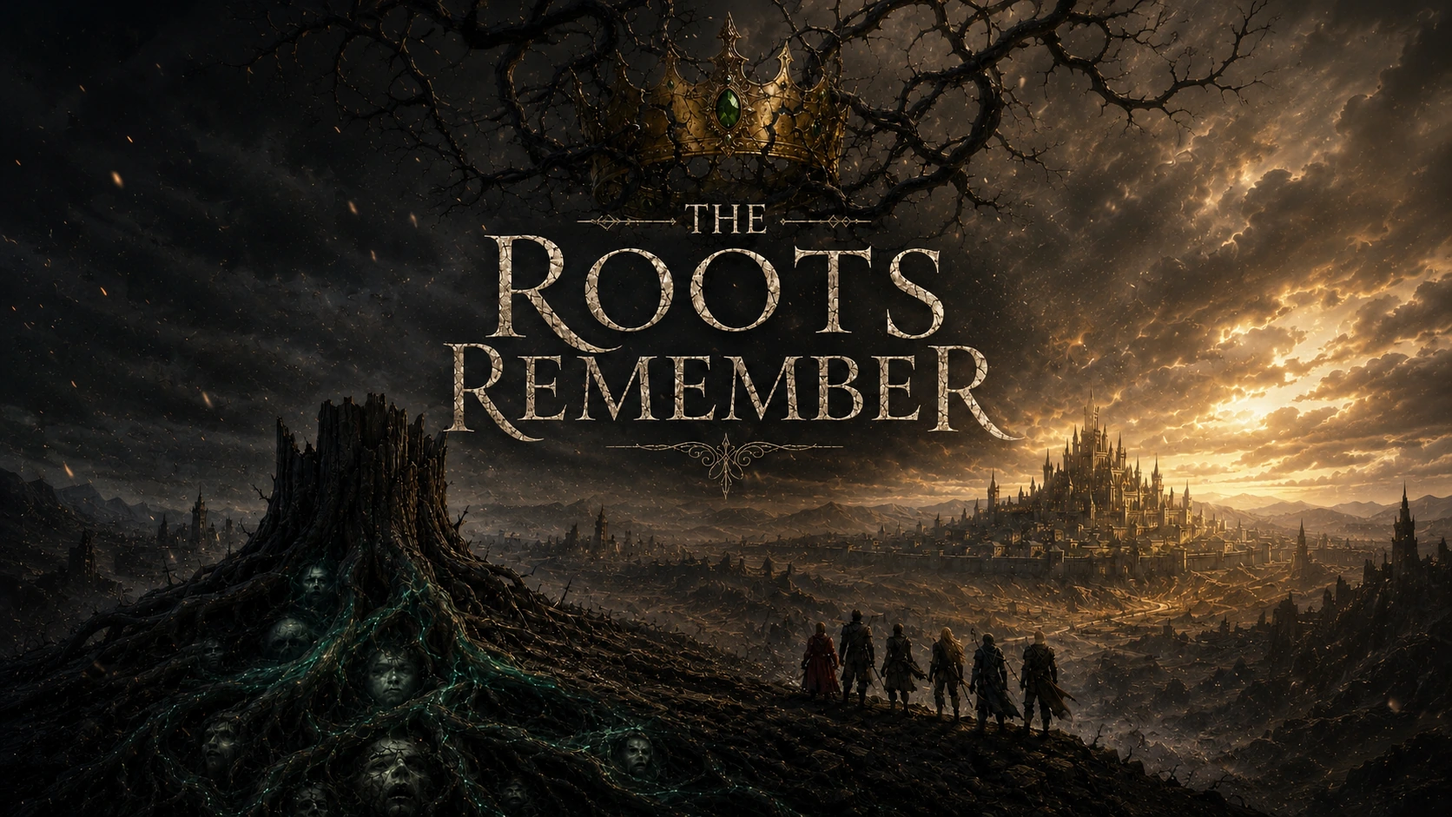
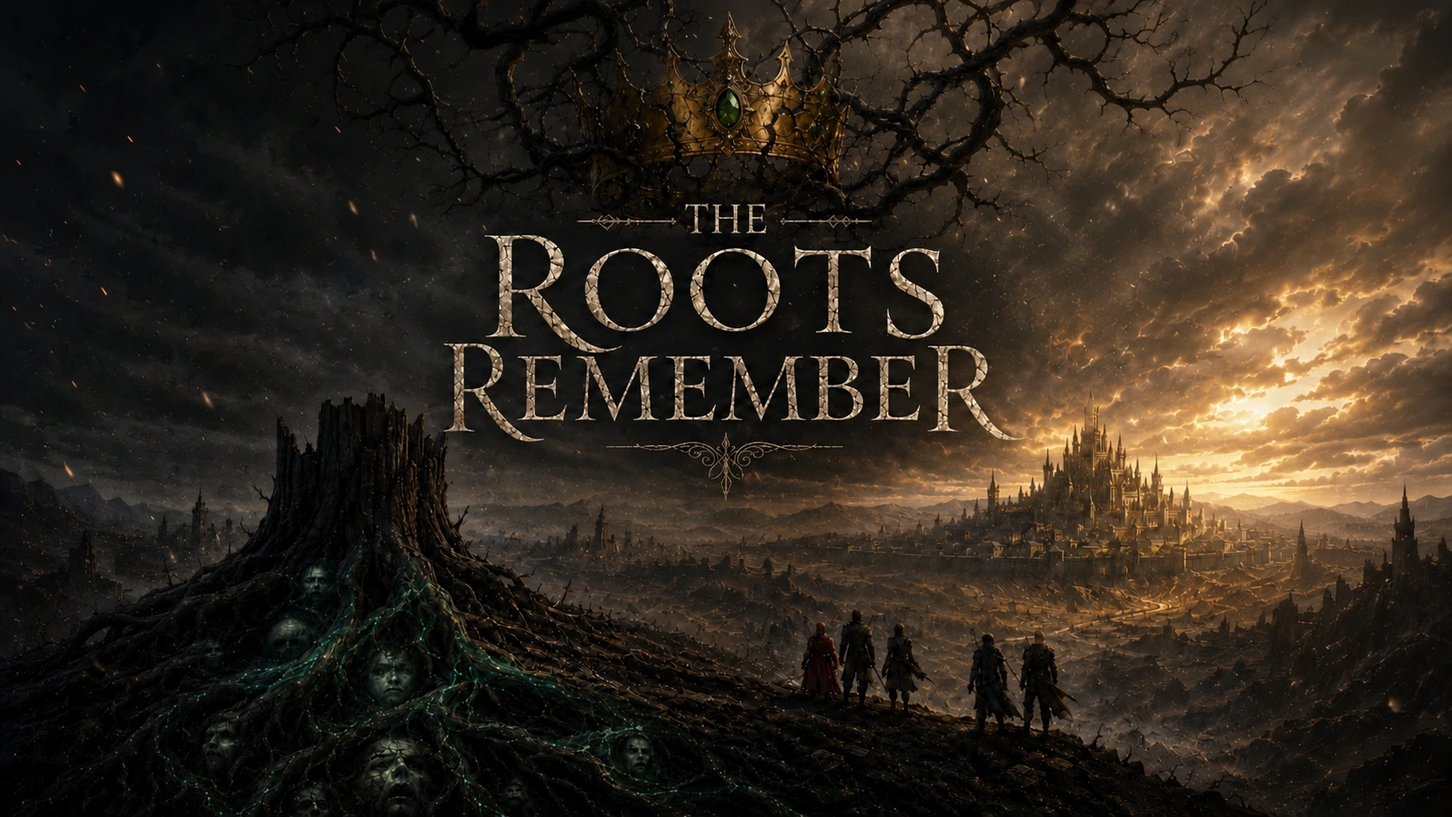
removal of syrsa orsona and xavier

diff --git a/script.js b/script.js
@@ -75,22 +75,6 @@ const DATA = {
       ],
     },
     {
-      slug: "syrsa-orsona",
-      name: "Syrsa Orsona",
-      player: "James Bianco",
-      sheetImage: "assets/characters/full/syrsa-orsona.webp",
-      cardImage: "assets/characters/cards/syrsa-orsona.webp",
-      fullImage: "assets/characters/full/syrsa-orsona.webp",
-      className: "Bard",
-      subclass: "College of the Unbound Song",
-      accent: "255, 220, 58",
-      description: [
-        "Syrsa Orsona is a 25-year-old Wood Elven Bard of the College of the Unbound Song. She discovered her magical abilities while playing the lute, when she learned of her potential as a Bard. She supports her party using magic and music while trying to stay out of trouble.",
-        "She describes herself as a free spirit, adventuring to experience events and conflicts so that she can later write songs about them. Her hope is to become famous—or at least be remembered after her death—and to show her family that she is worth something.",
-        "Syrsa is also quite fond of pipeweed and smokes it often."
-      ],
-    },
-    {
       slug: "vaeloryn-starsong",
       name: "Vaeloryn Starsong",
       player: "Gianluca Amato",
@@ -256,12 +240,12 @@ const DATA = {
       title: "A New Beginning in Valemere",
       paragraphs: [
         "Aurelius Tempestine arrived in the Kingdom of Valemere for the first time, unaware that the guards at the gate had quietly stolen his coin. Still, the lively streets ahead filled him with hope for a fresh beginning.",
-        "His first stop was the Middle Fiddler Tavern, packed with people celebrating the upcoming 10-Year Veridium Anniversary. Inside, Syrsa Orsona’s music had the entire tavern captivated, while childhood brothers Cassian Caelaris and Leoric Everheart relaxed together at the back.",
+        "His first stop was the Middle Fiddler Tavern, packed with people celebrating the upcoming 10-Year Veridium Anniversary. Inside, lively conversation filled the tavern, while childhood brothers Cassian Caelaris and Leoric Everheart relaxed together at the back.",
         "Elsewhere, Vaeloryn Starsong found himself chasing a young white vulpin who had stolen his gold. The chase ended when the cub crashed into the mysterious Morvan Nyx. After a tearful confession—and the unfortunate revelation that the gold had been thrown somewhere into the market—Vaeloryn accepted his loss and headed toward the anniversary celebrations alongside Morvan.",
         "At the plaza, the King unveiled Valemere’s future: Veridium, an endless source of energy for the kingdom. Then everything went wrong. The machine overloaded, sending strange energy across the plaza. Copper statues and armor came alive, attacking civilians as panic spread through the streets.",
-        "Six strangers stood together and fought back. After Leoric discovered that destroying the machine was the only way to stop the constructs, a Leonin warrior descended from the rooftops—Orthen Solaris—hurling his lance into the battle. Together, they destroyed the machine.",
-        "Instead of being celebrated as heroes, however, the six were blamed for the disaster. Orthen defended them, saving them from imprisonment, but they were placed under house arrest beneath his supervision.",
-        "And so, six strangers ended the night beneath Orthen’s roof, unaware that this was only the beginning of their journey."
+        "Five strangers stood together and fought back. After Leoric discovered that destroying the machine was the only way to stop the constructs, a Leonin warrior descended from the rooftops—Orthen Solaris—hurling his lance into the battle. Together, they destroyed the machine.",
+        "Instead of being celebrated as heroes, however, the five were blamed for the disaster. Orthen defended them, saving them from imprisonment, but they were placed under house arrest beneath his supervision.",
+        "And so, five strangers ended the night beneath Orthen’s roof, unaware that this was only the beginning of their journey."
       ]
     },
     {
@@ -269,14 +253,14 @@ const DATA = {
       title: "The Lion's Trial",
       paragraphs: [
         "The group arrived at Orthen Solaris' home, where they finally had the chance to speak about everything that had happened. But Orthen had something else in mind.",
-        "While his butler, Sebastian, prepared dinner, Orthen brought the six into his training room and challenged them himself. Six against one. Despite being a 64-year-old Leonin and admittedly rusty, Orthen fought with a grin on his face, constantly pushing them to stop holding back. As they listened, the sparring quickly became far more aggressive, with both sides throwing everything they had into the fight.",
+        "While his butler, Sebastian, prepared dinner, Orthen brought the five into his training room and challenged them himself. Five against one. Despite being a 64-year-old Leonin and admittedly rusty, Orthen fought with a grin on his face, constantly pushing them to stop holding back. As they listened, the sparring quickly became far more aggressive, with both sides throwing everything they had into the fight.",
         "The battle only ended when Sebastian calmly entered the room to announce that dinner was ready.",
         "Around the table, Orthen revealed the truth: the fight was never about winning. He wanted to understand who they were through the way they fought. As the setting sun filled the room with a golden light, Orthen critiqued each of them and asked a much bigger question: What do you want from your life?",
         "One by one, they answered honestly, and Orthen offered what advice he could. Eventually, he pulled out several mission requests and chose one for the group. A mineral shop had been robbed, and their task was simple: investigate the theft, find whoever was responsible, and bring them in.",
         "But Orthen had one personal request. While investigating, he asked them to keep an eye out for a Leonin who looked very much like him. His brother. He had been sent on a mission long ago... and never returned.",
         "Before beginning their adventure, the group decided to write letters to their loved ones. Meanwhile, Orthen began disabling the many traps scattered throughout his home so they could safely sleep in the guest rooms.",
         "Leoric, naturally, asked about books. Orthen showed him his study, with Morvan and Vaeloryn following close behind. The three searched through shelves of old books and scrolls, with Leoric eventually discovering a Misty Step spell scroll. Hours later, Orthen practically had to drag them out.",
-        "Before heading to bed, he went around wishing everyone goodnight. Unfortunately for him, when Syrsa opened her door, Orthen found himself staring at far more than he expected. After several seconds of completely losing the ability to form a sentence, the old Leonin finally composed himself, said goodnight, and escaped."
+        "Before heading to bed, Orthen went around wishing everyone goodnight. With the house finally quiet, the group settled into the guest rooms to rest before their first assignment."
       ]
     },
     {
@@ -287,9 +271,9 @@ const DATA = {
         "Orthen revealed why the Solaris name carried so much weight. His family had helped found part of the Royal Academy, with an entire school house—Solaris—named in their honour. For generations, the family had sworn to protect the innocent, though many viewed them less as heroes and more as vigilantes.",
         "Before sending the group out, Orthen gave one warning: Do not use his name. Too much attention could ruin the investigation. To keep them unnoticed, Sebastian prepared an ordinary commoner’s carriage.",
         "After sending their letters at the post office, the group reached the city gates, where guards searched both them and the carriage. Everything was cleared. But before they left, the guards gave them one final warning. Travellers and supply caravans using this road had been disappearing.",
-        "And so, their first true journey began. Aurelius played his lyre, Syrsa joined with her lute, and the others talked, joked, and slowly began learning more about one another.",
+        "And so, their first true journey began. Aurelius played his lyre while the others talked, joked, and slowly began learning more about one another.",
         "Until Vaeloryn spotted something strange beside the road. What initially looked like a pile of wood turned out to be a destroyed carriage, surrounded by worn clothing and the unmistakable stench of death.",
-        "While Morvan turned invisible and scouted ahead, Syrsa, Vaeloryn, and Cassian investigated. Then came the growl. A grey wolf watched them from the rocks above. Then another appeared behind them. The group quickly regrouped and fought them off—but the forest had something much worse waiting.",
+        "While Morvan turned invisible and scouted ahead, Vaeloryn and Cassian investigated. Then came the growl. A grey wolf watched them from the rocks above. Then another appeared behind them. The group quickly regrouped and fought them off—but the forest had something much worse waiting.",
         "A massive shadow passed overhead. One of the dead wolves suddenly vanished, leaving only enormous claw marks behind. Then, with a violent crash, a winged owlbear descended.",
         "The battle was brutal. Eventually, Morvan ended it by driving a lance straight through the creature’s heart, pinning it against a nearby tree. But during the fight, Leoric had learned the truth. The owlbear was a mother. She had young nearby.",
         "Unable to leave them to starve, the group cut meat from their fallen mother and brought it to the cubs. Most accepted it. One did not. It stared directly at Leoric with hatred, promising that they would meet again. And next time, it would not be peacefully.",
@@ -324,7 +308,7 @@ const DATA = {
       paragraphs: [
         "The night carried on, but for the group, everything had stopped. Leoric Everheart was dead. For a time, nobody knew what to say. Cassian’s grief quickly turned to fury, his anger consuming him as he struck the earth again and again, powerless to change what had happened. Vaeloryn could not accept it either. Desperate for another answer, he stepped away from the others and called upon one of his vestiges, demanding to know if Leoric could be brought back. The warning he received was clear: death and fate were not forces to be interfered with. Yet Vaeloryn continued to insist. Eventually, the vestige offered only one possibility—the Feywild, a realm where perhaps something capable of defying death could be found.",
         "As the vestige disappeared and Vaeloryn began making his way back, darkness suddenly swallowed everything around him. Black feathers drifted from above, and from beside him passed a faceless figure: the Queen of Ravens, deity of death. She spoke no words. She did not need to. A single expression directed toward Vaeloryn sent a chill through his entire body. Then, just as suddenly as it had appeared, the darkness tore away, leaving him standing once again beneath the night sky.",
-        "The group ultimately decided that Leoric needed to be returned to Silvercrest. Cassian believed his father deserved to hear what had happened and to receive his son himself. Morvan, however, had noticed two suspicious individuals travelling northwest toward Thornwatch Village. With a possible lead slipping away, the group made the difficult decision to split. Morvan and Vaeloryn would pursue the trail toward Thornwatch, while Cassian, Aurelius and Syrsa carried Leoric home.",
+        "The group ultimately decided that Leoric needed to be returned to Silvercrest. Cassian believed his father deserved to hear what had happened and to receive his son himself. Morvan, however, had noticed two suspicious individuals travelling northwest toward Thornwatch Village. With a possible lead slipping away, the group made the difficult decision to split. Morvan and Vaeloryn would pursue the trail toward Thornwatch, while Cassian and Aurelius carried Leoric home.",
         "With the help of Orina, they preserved Leoric’s body as best they could throughout the journey. Upon entering Silvercrest, the familiar sight of the Solaris Mansion was one of the first things they saw. Sebastian answered their knock, and one look at their faces was enough for him to know that something had gone terribly wrong. He immediately went to fetch Orthen. Heavy footsteps eventually echoed through the mansion as the old Leonin entered with his usual welcoming smile—but the moment he saw them, it vanished. Cassian explained what had happened. For a moment, Orthen seemed to shrink beneath the weight of the news. He struggled to contain the anxiety and grief building inside him before quietly offering a short prayer for Leoric.",
         "Then came the part Cassian had been dreading. They travelled to the home of Leoric’s father. When he opened the door and saw Cassian standing there, his first thought was that Leoric had gotten himself into trouble—or perhaps ended up in prison. He had no idea that his son’s body rested inside the carriage behind them. When he finally saw Leoric, he said nothing. Minutes passed in complete silence. Without a word, he magically lifted his son from the carriage, carried him inside, and closed the door.",
         "Meanwhile, Morvan and Vaeloryn had reached Thornwatch Village, where their search led them into a local tavern. Inside, unexpectedly, sat Gymerra, the owner of Stardust and Slag. She immediately recognized the two from the previous night. Her initial happiness quickly faded into unease, something Morvan immediately noticed. He grabbed three pints of beer, sat beside her, and turned the conversation into a drinking contest. Morvan came out victorious—and with Gymerra’s guard lowered, information began to spill. She spoke suspiciously of the Crown and of unusual purchases being made by the King through her establishment. Eventually, claiming exhaustion, Gymerra excused herself and returned to her room.",
@@ -345,17 +329,17 @@ const DATA = {
       number: "Session VI",
       title: "Ashes and Old Trails",
       paragraphs: [
-        "Cassian, Syrsa, and Aurelius finally arrived in Thornwood Village, where their first sight was the local tavern—and their first encounter was considerably stranger. Two dwarves came barging through its doors, one completely drunk, covered in dirt and still carrying his filthy pickaxe, while the other desperately tried to drag him toward work without touching so much as a speck of grime. Taking pity on the germophobic dwarf, Syrsa magically cleaned his companion before the group stepped inside.",
-        "The tavernkeep was already drunk despite it still being afternoon. He welcomed the unfamiliar faces before Syrsa reminded him that she was hardly unfamiliar at all. After taking a closer look, recognition struck him immediately. Syrsa had been here before. After an enthusiastic reunion, the group asked where Morvan and Vaeloryn were staying. Unfortunately, the tavernkeep was far too drunk to be useful and jokingly sent them to Room Four instead of Room Ten.",
+        "Cassian and Aurelius finally arrived in Thornwood Village, where their first sight was the local tavern—and their first encounter was considerably stranger. Two dwarves came barging through its doors, one completely drunk, covered in dirt and still carrying his filthy pickaxe, while the other desperately tried to drag him toward work without touching so much as a speck of grime. The pair waited for the commotion to pass before stepping inside.",
+        "The tavernkeep was already drunk despite it still being afternoon. He welcomed the unfamiliar faces, and the pair asked where Morvan and Vaeloryn were staying. Unfortunately, the tavernkeep was far too drunk to be useful and jokingly sent them to Room Four instead of Room Ten.",
         "Cassian knocked repeatedly before finally opening the door—and immediately regretted doing so. What followed was an extremely awkward confrontation with a maid who had most certainly not been expecting visitors. The argument became loud enough that Vaeloryn eventually threw open the door to Room Ten and shouted for everyone to keep quiet.",
         "The moment the others entered the correct room, the humour disappeared.",
-        "The stench of death filled the air. Gymerra’s corpse remained inside, dried blood staining the floor, walls, and carpet, with even more seeping from the wardrobe. Morvan and Vaeloryn were still asleep among the aftermath, utterly exhausted from the battle that had nearly killed them. Once awakened and cleaned up, they explained everything: Gymerra’s involvement, the goblin attack, Grimnak’s escape, and perhaps most painfully, the pride the goblins had taken in Leoric’s death.",
-        "Syrsa contacted the tavernkeep through magic and called him upstairs. The sight nearly broke him. Pale and shaken, he had to be seated while the group explained what had happened. Eventually, a decision was made. The bodies could not remain. They would be taken into the forest and burned, while Room Ten would remain closed until the damage could be repaired.",
-        "Before leaving, however, Syrsa heard something familiar from downstairs.",
+        "The stench of death filled the air. Gymerra’s corpse remained inside, dried blood staining the floor, walls, and carpet, with even more seeping from the wardrobe. Morvan was still asleep among the aftermath, and both men were utterly exhausted from the battle that had nearly killed them. Once Morvan had been awakened and the pair had cleaned themselves up, they explained everything: Gymerra’s involvement, the goblin attack, Grimnak’s escape, and perhaps most painfully, the pride the goblins had taken in Leoric’s death.",
+        "The group called the tavernkeep upstairs. The sight nearly broke him. Pale and shaken, he had to be seated while they explained what had happened. Eventually, a decision was made. The bodies could not remain. They would be taken into the forest and burned, while Room Ten would remain closed until the damage could be repaired.",
+        "Before leaving, however, the group heard music drifting up from downstairs.",
         "A lute.",
-        "The musician performing inside the tavern was Jack Vinland, a man who had once been something of a father figure to her. Months had passed since they had last seen one another, and their reunion brought a rare moment of genuine happiness into what had otherwise been a grim few days.",
+        "The musician performing inside the tavern was Jack Vinland. The group stopped to speak with him, and his music brought a rare moment of warmth into what had otherwise been a grim few days.",
         "The group eventually carried the bodies into the forest and set them alight. As flames consumed the evidence, reality itself suddenly tore open beside them. A portal appeared, and a man came hurtling through it at tremendous speed, crashing directly into a tree before collapsing unconscious.",
-        "Syrsa healed him.",
+        "The party rushed to his side and tended to his injuries.",
         "When the stranger awoke, he introduced himself as Valen, a multiversal merchant who travelled between worlds selling rare and unusual items. He explained that he came from another universe entirely—and that somewhere beyond their world, he was following another group of adventurers much like them. After thanking the party for saving him, Valen disappeared once again, leaving behind considerably more questions than answers.",
         "With the bodies gone, the party originally planned to return to Silvercrest and report everything to Orthen. Then they remembered the promise they had made him.",
         "His missing brother.",
@@ -365,7 +349,7 @@ const DATA = {
         "A Leonin.",
         "Gerxis.",
         "It was the first genuine lead they had found regarding Orthen’s missing brother.",
-        "With their search finally bearing fruit, Syrsa celebrated in her own way—by relentlessly flirting with Amanita until the poor tailor became so flustered that she began walking into nearly every corner of her own shop.",
+        "With their search finally bearing fruit, the group thanked Amanita and left her shop with renewed hope.",
         "Night had settled over Thornwood by the time they finished. Rather than return to the road, the group accepted Jack Vinland’s hospitality and stayed at his home for the evening.",
         "For the first time since Leoric’s death, the group had found something they desperately needed.",
         "A trail worth following."
@@ -430,21 +414,6 @@ const GRIMWOOD_CHARACTERS = [
     "accent": "166, 96, 218",
     "description": [
       "Lucien Veyr is a quiet, sharp-eyed High Elf rogue who works as an infiltrator and scout for adventuring parties. Calm, observant, and hard to read, he prefers precision over brute force, using stealth, psychic blades, and subtle illusions to control a fight before his enemies even realize he is there. Beneath the polished manners and dark clothing is a seasoned adventurer who notices everything and trusts very little."
-    ]
-  },
-  {
-    "slug": "xavier-serahart",
-    "name": "Xavier Serahart",
-    "player": "James Bianco",
-    "cardImage": "assets/grimwood/characters/cards/xavier-serahart.webp",
-    "fullImage": "assets/grimwood/characters/full/xavier-serahart.webp",
-    "className": "Paladin",
-    "subclass": "Oath of the Slaughter",
-    "accent": "104, 110, 122",
-    "description": [
-      "A human with the past of a raider, pillaging alongside his former tribe when the need arose. Although for him it was something more, it was a joy, a pleasure to shed blood, both his own and of others. After a few years he left his tribe due to disgust of them not enjoying the violence and killing only when necessary.",
-      "He made the decision to join an army of mercenaries to fight in plenty of wars and battles where he got what he wished... blood, screams and death. This devotion to the slaughter started to gift him with magical power which he used to increase his kill count. After concerns of his bloodlust started to arise throughout the regiment of the mercenary band, he was secretly laid off, leaving Xavier to fend for himself.",
-      "Later he came upon the adventuring guild where he saw an opportunity to hone his skills, take jobs and shed more blood. Nowadays he takes care to hide his true persona of a bloodthirsty maniac but when he smells or sees a bloody figure, the bloodhound is released..."
     ]
   },
   {

diff --git a/index.html b/index.html
@@ -10,7 +10,7 @@
   <meta property="og:description" content="Explore The Roots Remember, Into the Grimwood Manor and Echoes of Eternity." />
   <meta property="og:type" content="website" />
   <meta property="og:url" content="https://tero300722.github.io/The-Roots-Remember/" />
-  <meta property="og:image" content="https://tero300722.github.io/The-Roots-Remember/assets/share-preview.jpg?v=20260919-layout2" />
+  <meta property="og:image" content="https://tero300722.github.io/The-Roots-Remember/assets/share-preview.jpg?v=20261020-roster" />
   <meta property="og:image:width" content="1200" />
   <meta property="og:image:height" content="630" />
   <meta name="twitter:card" content="summary_large_image" />
@@ -33,7 +33,7 @@
   <link rel="icon" href="assets/favicon.ico?v=20260919-logo1" sizes="any" />
   <link rel="icon" href="assets/favicon-64.png?v=20260919-logo1" type="image/png" sizes="64x64" />
   <link rel="apple-touch-icon" href="assets/favicon-180.png?v=20260919-logo1" />
-  <link rel="preload" as="image" href="assets/campaign-hero.webp?v=20261005-chronicles1" fetchpriority="high" />
+  <link rel="preload" as="image" href="assets/campaign-hero.webp?v=20261020-roster" fetchpriority="high" />
   <link rel="preload" as="image" href="assets/grimwood-manor-title.png" fetchpriority="high" />
   <link rel="preconnect" href="https://fonts.googleapis.com" />
   <link rel="preconnect" href="https://fonts.gstatic.com" crossorigin />
@@ -80,7 +80,7 @@
         <div class="chronicle-section-label collection-current-label"><span>I · The ongoing chronicle</span><i aria-hidden="true"></i></div>
         <button class="chronicle-card chronicle-card-featured" type="button" data-chronicle="trr" aria-label="Enter The Roots Remember, ongoing campaign created by Mikael Delia">
           <span class="chronicle-card-art-wrap">
-            <img class="chronicle-card-art" src="assets/campaign-hero.webp?v=20261005-chronicles1" width="1672" height="941" alt="The Roots Remember campaign artwork" fetchpriority="high" decoding="async" />
+            <img class="chronicle-card-art" src="assets/campaign-hero.webp?v=20261020-roster" width="1672" height="941" alt="The Roots Remember campaign artwork" fetchpriority="high" decoding="async" />
           </span>
           <span class="chronicle-card-copy">
             <span class="chronicle-card-meta">
@@ -193,7 +193,7 @@
           <figure class="chapter-illustration">
             <img
               class="hero-art hero-art-session6"
-              src="assets/session-6-home.png"
+              src="assets/session-6-home.webp?v=20261020-roster"
               width="1536"
               height="1024"
               alt="The bewildered party watches Valen tumble out of a colourful portal and collide with a tree beside the forest fire"
@@ -208,7 +208,7 @@
               <h1 id="latest-chapter-title">Ashes and Old Trails</h1>
             </div>
             <div class="chapter-summary">
-              <p class="lead">Reunited in Thornwood Village, the party faces the aftermath of a bloody battle, reconnects with an old friend, and finds a promising lead in the search for Orthen’s missing brother.</p>
+              <p class="lead">Reunited in Thornwood Village, the party faces the aftermath of a bloody battle, meets a travelling musician, and finds a promising lead in the search for Orthen’s missing brother.</p>
               <div class="hero-actions">
                 <button class="btn btn-primary" data-jump="sessions" type="button">Read Full Recap</button>
                 <button class="btn btn-ghost" data-jump="quests" type="button">View Current Quest</button>
@@ -805,7 +805,7 @@
   <script src="npc-archive.js?v=20261018-faces"></script>
   <script src="mystery-character.js?v=20261018-runes"></script>
   <script src="serpent.js?v=20261019-controls2"></script>
-  <script src="script.js?v=20261019-serpent1"></script>
+  <script src="script.js?v=20261020-roster"></script>
   <script src="character-presentation.js?v=20261014-three-four"></script>
   <script src="echoes.js?v=20261014-three-four"></script>
   <script src="elden.js?v=20261014-npc-archive"></script>
